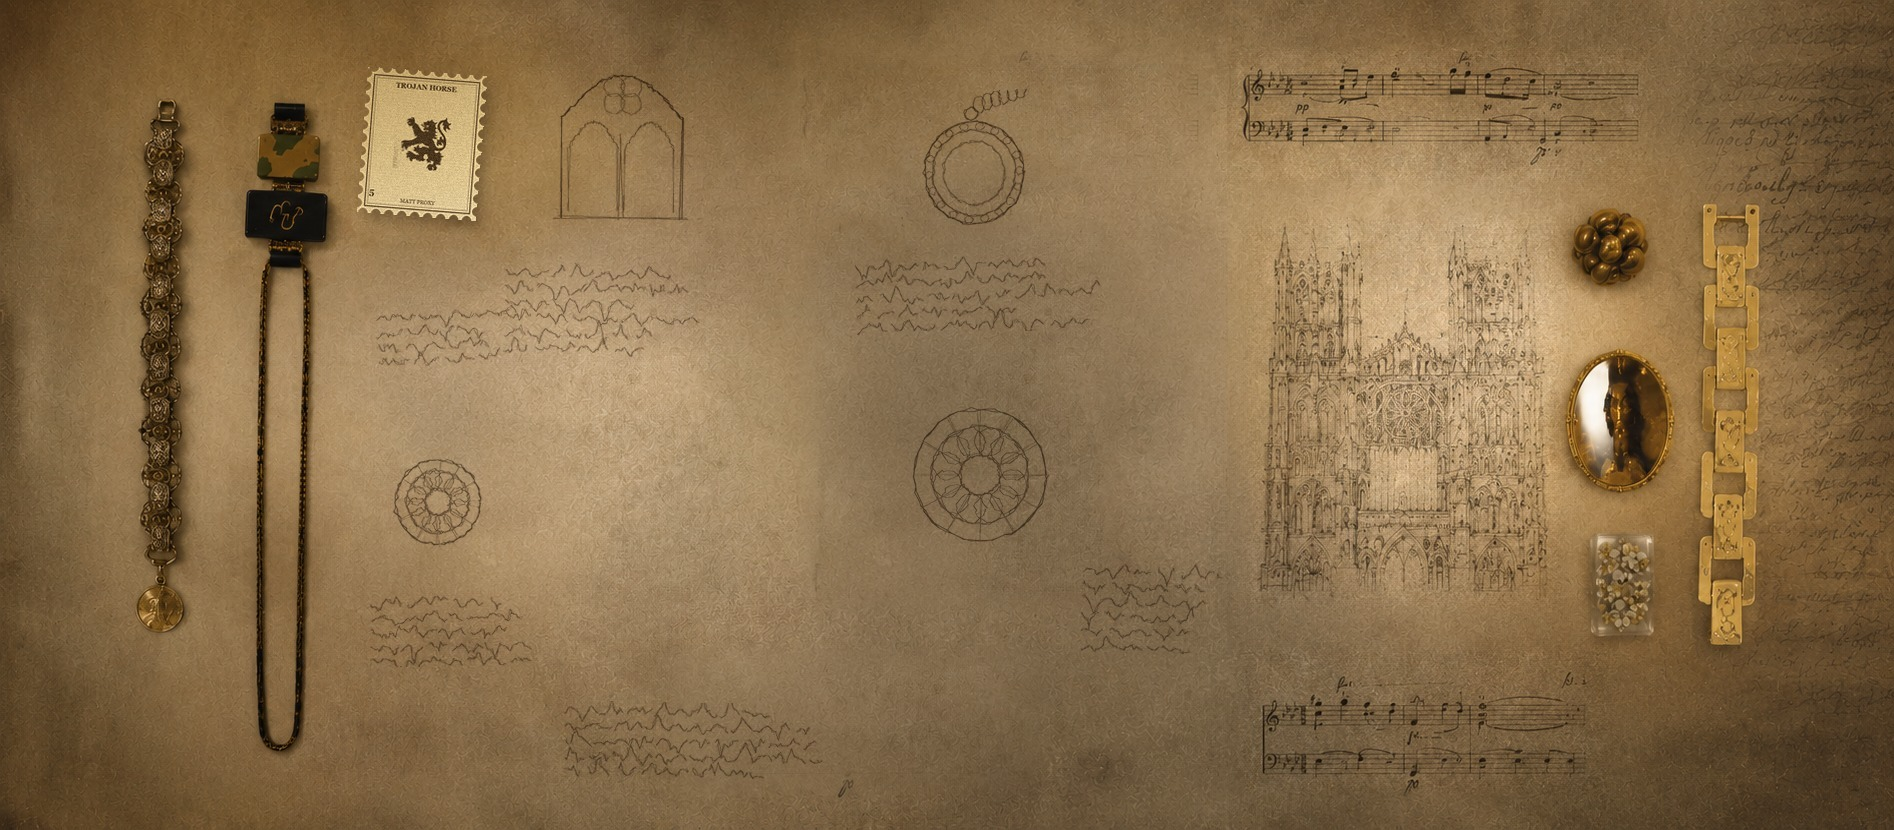
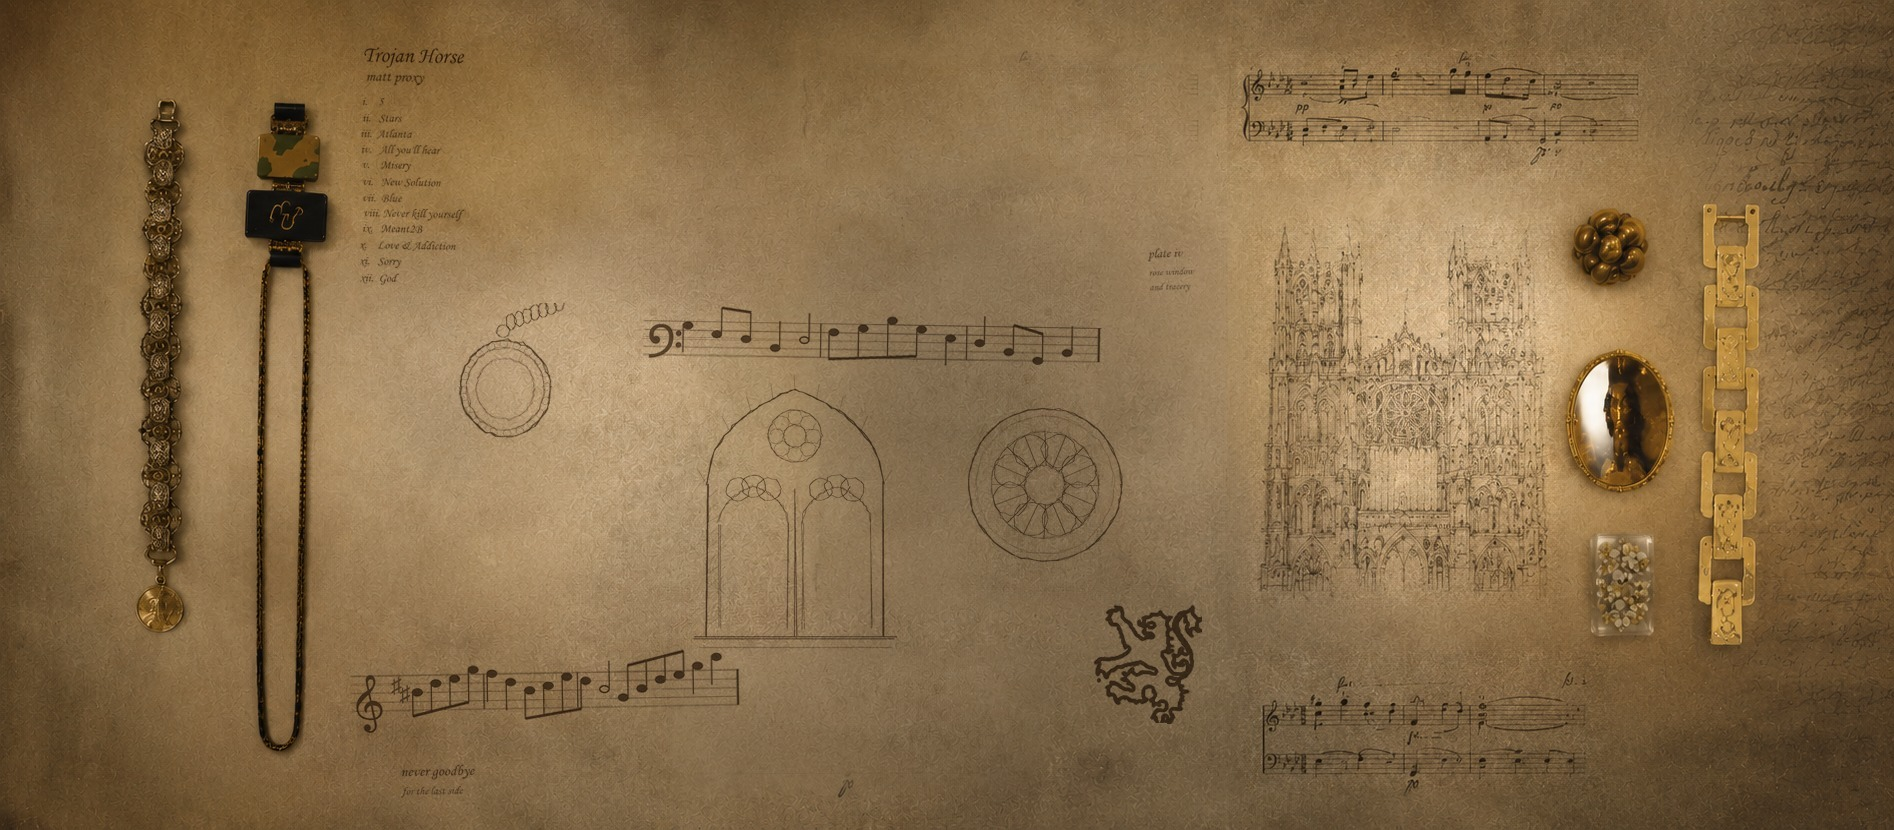
Le papier de Trojan Horse, deuxieme main
Le timbre faisait faux : il part. Les notes manuscrites etaient des
vaguelettes calculees, six blocs qui se ressemblaient comme des copies. La
baie gothique tronait en pleine vue alors qu elle n etait qu une ebauche.

Cette fois chaque piece est unique et dit quelque chose. L ecriture est de la
vraie ecriture, dans une anglaise, et elle dit le disque : son titre, son
auteur et ses douze pistes. Les portees sont de vraies portees, avec clef,
armure, barres de mesure et notes posees sur les lignes. La baie passe
derriere la platine et gagne son remplage — lancettes, trilobes, rose et
claveaux. S y ajoutent une rose, l etude d une broche et l embleme de l album
releve au trait.

Deux corrections en cours de route. Les barres des croches etaient posees a
une hauteur fixe et flottaient au dessus des notes ; elles relient maintenant
les extremites des hampes, et leur pente est bornee a un interligne et demi,
comme le fait un graveur. Et l echelle des pieces etait devinee a leur
largeur, si bien que les petites passaient au travers et arrivaient trois
fois trop grosses : chacune la declare desormais elle meme.

diff --git a/style.css b/style.css
@@ -1093,7 +1093,7 @@ body.alb-sepia .deco{
   display:block;
   position:absolute;inset:0;z-index:0;
   overflow:hidden;
-  background:url("assets/bg3.jpg?v=5") center center / cover no-repeat;
+  background:url("assets/bg3.jpg?v=6") center center / cover no-repeat;
   pointer-events:none;
   opacity:0;transition:opacity 1.4s ease .3s;
   animation:bgdrift 84s ease-in-out infinite alternate;

diff --git a/index.html b/index.html
@@ -13,7 +13,7 @@
 <meta property="og:image" content="assets/cover.jpg">
 <meta property="og:type" content="music.album">
 <meta name="twitter:card" content="summary_large_image">
-<link rel="stylesheet" href="style.css?v=13">
+<link rel="stylesheet" href="style.css?v=14">
 </head>
 <body>
 
